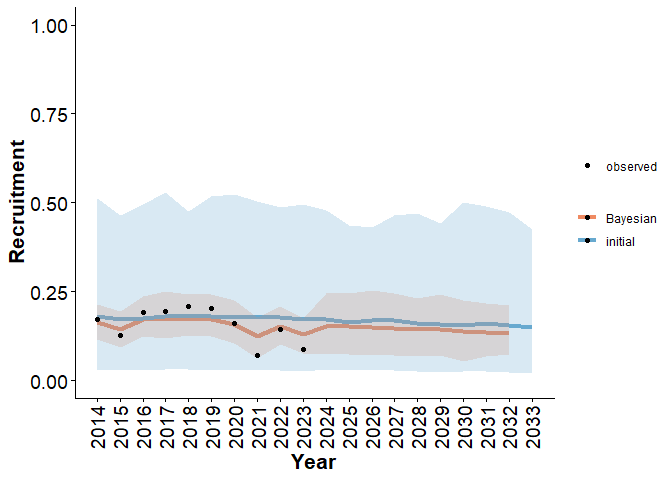
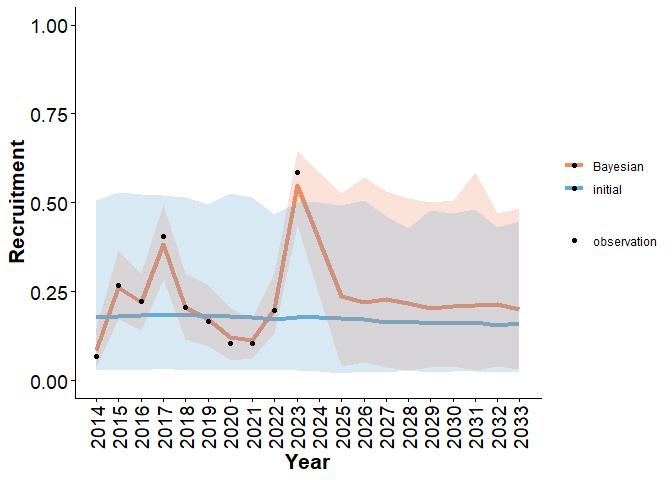
run documentation

diff --git a/README.md b/README.md
@@ -19,8 +19,9 @@ include:
 - a national demographic model with density dependence and interannual
   variability follows [Johnson et.
   al. (2020)](doi:10.1111/1365-2664.13637) with modifications described
-  in [Dyson et al. (in press)](https://doi.org/10.1101/2022.06.01.494350).
-  Demographic rates vary with disturbance as estimated by [Johnson et.
+  in [Dyson et al. (in
+  press)](https://doi.org/10.1101/2022.06.01.494350). Demographic rates
+  vary with disturbance as estimated by [Johnson et.
   al. (2020)](doi:10.1111/1365-2664.13637).
 - a Bayesian Beta model for integrating prior information from Johnson
   et al’s national analysis of demographic-disturbance relationships
@@ -37,6 +38,11 @@ R package [(Dalgarno et al. 2025)](https://doi.org/10.21105/joss.07997)
 al. (2025)](https://doi.org/10.1016/j.ecoinf.2025.103095) model has been
 extended as follows:
 
+- Allow for calculation of population growth rate without initial
+  population size information. See [Analytic Methods for Estimation of
+  Boreal Caribou Survival, Recruitment and Population
+  Growth](https://poissonconsulting.github.io/bboutools/articles/methods.html)
+  for details.
 - Allow analysis of composition survey data in bboutools form that
   includes Yearlings, Bulls, and UnknownAdults. See [Analytic Methods
   for Estimation of Boreal Caribou Survival, Recruitment and Population
@@ -49,6 +55,10 @@ extended as follows:
   Boreal Caribou Survival, Recruitment and Population
   Growth](https://poissonconsulting.github.io/bboutools/articles/methods.html)
   for details.
+- Allow for analysis of groups of populations with shared interannual
+  variation. See [Multi-Population Analysis and Other
+  Extensions](https://poissonconsulting.github.io/bboutools/articles/extensions.html)
+  for details.
 
 Simulated example population trajectories can be created from the
 national model or fitted Bayesian models, and combined with a simple
@@ -57,10 +67,12 @@ monitoring scenarios and show how monitoring requirements depend on
 landscape condition ([Hughes et
 al. 2025](https://doi.org/10.1016/j.ecoinf.2025.103095)).
 
-`caribouMetrics` also contains an implementation of [Hornseth and
-Rempel’s (2016)](https://doi.org/10.1139/cjz-2015-0101) Ontario boreal
-caribou resource selection model described in [Dyson et
-al. (in press)](https://doi.org/10.1101/2022.06.01.494350).
+The
+[EcoEvoMissisaPaper](https://github.com/LandSciTech/caribouMetrics/tree/EcoEvoMissisaPaper)
+branch of `caribouMetrics` also contains an implementation of [Hornseth
+and Rempel’s (2016)](https://doi.org/10.1139/cjz-2015-0101) Ontario
+boreal caribou resource selection model described in [Dyson et al. (in
+press)](https://doi.org/10.1101/2022.06.01.494350).
 
 Model implementation is intended to be modular and flexible, allowing
 reuse of components in a variety of contexts including projections of
@@ -86,14 +98,9 @@ package.
 library(caribouMetrics)
 #> Loading required package: nimble
 #> Warning: package 'nimble' was built under R version 4.4.3
-#> nimble version 1.3.0 is loaded.
+#> nimble version 1.4.2 is loaded.
 #> For more information on NIMBLE and a User Manual,
 #> please visit https://R-nimble.org.
-#> 
-#> Note for advanced users who have written their own MCMC samplers:
-#>   As of version 0.13.0, NIMBLE's protocol for handling posterior
-#>   predictive nodes has changed in a way that could affect user-defined
-#>   samplers in some situations. Please see Section 15.5.1 of the User Manual.
 #> 
 #> Attaching package: 'nimble'
 #> The following object is masked from 'package:stats':
@@ -102,6 +109,25 @@ library(caribouMetrics)
 #> The following object is masked from 'package:base':
 #> 
 #>     declare
+#> Loading required package: nimbleQuad
+#> Warning: package 'nimbleQuad' was built under R version 4.4.3
+#> 
+#> Attaching package: 'nimbleQuad'
+#> The following objects are masked from 'package:nimble':
+#> 
+#>     buildAGHQ, buildLaplace, runAGHQ, runLaplace, summaryAGHQ,
+#>     summaryLaplace
+#> Loading required package: bbouNationalPriors
+#> Loading required package: dplyr
+#> Warning: package 'dplyr' was built under R version 4.4.3
+#> 
+#> Attaching package: 'dplyr'
+#> The following objects are masked from 'package:stats':
+#> 
+#>     filter, lag
+#> The following objects are masked from 'package:base':
+#> 
+#>     intersect, setdiff, setequal, union
 # use local version on local and installed on GH
 if(requireNamespace("devtools", quietly = TRUE)) devtools::load_all()
 #> ℹ Loading caribouMetrics
@@ -141,19 +167,19 @@ demRates <- estimateNationalRates(covTable = disturb_tbl,
 #> popGrowthPars contains quantiles so they are used instead of the defaults
 demRates
 #>   zone   Anthro     Fire Total_dist Fire_excl_anthro FID     S_bar   S_stdErr
-#> 1    1 39.97933 1.732936   40.56555        0.5862182   0 0.8478733 0.05024037
-#>     S_PIlow  S_PIhigh     R_bar   R_stdErr    R_PIlow  R_PIhigh
-#> 1 0.7625781 0.9198247 0.1813372 0.09842164 0.03913806 0.3782637
+#> 1    1 39.97933 1.732936   40.56555        0.5862182   0 0.8478733 0.04913926
+#>    S_PIlow S_PIhigh     R_bar  R_stdErr    R_PIlow  R_PIhigh
+#> 1 0.754316 0.918299 0.1813372 0.1123969 0.04907986 0.4345639
 
 # Simulate population growth
 popGrow <- caribouPopGrowth(N = 2000, numSteps = 20, R_bar = demRates$R_bar, 
                             S_bar = demRates$S_bar)
 
 popGrow
-#>     N0    lambda   lambdaE   N       R_t        X_t       S_t n_recruits
-#> 1 2000 0.9071743 0.9247487 285 0.1865682 0.09328412 0.8584614         23
+#>     N0    lambda   lambdaE   N       R_t      X_t       S_t n_recruits
+#> 1 2000 0.9104049 0.9247487 306 0.2524541 0.126227 0.8249857         30
 #>   surviving_adFemales
-#> 1                 262
+#> 1                 276
 
 # simulate caribou collar observations
 params <- getScenarioDefaults(
@@ -182,8 +208,8 @@ pm <- bayesianTrajectoryWorkflow(simObs$simSurvObs, simObs$simRecruitObs,
 #>    Resolving undeclared variables
 #>    Allocating nodes
 #> Graph information:
-#>    Observed stochastic nodes: 29
-#>    Unobserved stochastic nodes: 70
+#>    Observed stochastic nodes: 20
+#>    Unobserved stochastic nodes: 79
 #>    Total graph size: 505
 #> 
 #> Initializing model
@@ -197,12 +223,12 @@ plotCompareTrajectories(pmTbls, c("Recruitment", "Adult female survival"))
 #> $Recruitment
 ```
 
-<img src="man/figures/README-example-1.png" width="100%" />
+<img src="man/figures/README-example-1.png" alt="" width="100%" />
 
     #> 
     #> $`Adult female survival`
 
-<img src="man/figures/README-example-2.png" width="100%" />
+<img src="man/figures/README-example-2.png" alt="" width="100%" />
 
 ## Resources
 
@@ -212,21 +238,21 @@ contains information on the `caribouMetrics` package. Here you can find
 function](https://landscitech.github.io/caribouMetrics/reference/index.html)
 and the following articles/vignettes/tutorials:
 
-- [**Demographic
-  Model**](https://landscitech.github.io/caribouMetrics/articles/caribouDemography.html):
+- [**Caribou Demographic Rates and
+  Trajectories**](https://landscitech.github.io/caribouMetrics/articles/caribouDemography.html):
   Simulate demographic rates and population growth using a national
-  model informed by demographic-disturbance relationships.
-- [**Bayesian Demographic
-  Projection**](https://landscitech.github.io/caribouMetrics/articles/bayesian-model-outputs.html):
-  Estimate and project demographic rates and population growth using a
-  Bayesian model informed by national demographic-disturbance
-  relationships and local demographic data.
+  model informed by demographic-disturbance relationships or Bayesian
+  models.
 - [**Comparing the caribouMetrics Beta model to bboutools
   models**](https://landscitech.github.io/caribouMetrics/articles/compare-bayesian-models.html):
   Estimate and project demographic rates and population growth using
-  Bayesian logistic models implemented in the `bboutools` R package, and
-  compare to Beta models informed by national demographic-disturbance
-  relationships and local demographic data.
+  Bayesian logistic models implemented in the `bboutools` R package or
+  Beta models informed by national demographic-disturbance relationships
+  and local demographic data, and compare models.
+- [**Simulation of monitoring scenarios informed by local
+  data**](https://landscitech.github.io/caribouMetrics/articles/combine-observed-simulated.html):
+  Assess monitoring strategies by simulating plausible outcomes of
+  additional monitoring.
 - [**Disturbance
   Metrics**](https://landscitech.github.io/caribouMetrics/articles/Using_disturbanceMetric.html):
   Calculate buffered anthropogenic disturbance and fire disturbance
@@ -246,13 +272,12 @@ packages to facilitate analysis of boreal caribou survival and
 recruitment data. Journal of Open Source Software 10:7997.
 <https://doi.org/10.21105/joss.07997>
 
-Dyson, M., Endicott, S., Simpkins C., Turner, J.W., Avery-Gomm S.,
-Johnson, C.A., Leblond, M., Neilson, E.W., Rempel, R., Wiebe, P.A.,
-Baltzer, J.L., Stewart, F.E.C., Hughes, J. 2022. Existing caribou
-habitat and demographic models are poorly suited for Ring of Fire impact
-assessment: A roadmap for improving the usefulness, transparency, and
-availability of models for conservation. bioRxiv 2022.06.01.494350;
-<https://doi.org/10.1101/2022.06.01.494350>
+Dyson, M., Endicott, S., Simpkins, C., Turner, J. W., Avery-Gomm, S.,
+Johnson, C. A., Leblond, M., Neilson, E. W., Rempel, R., Wiebe, P. A.,
+Baltzer, J. L., Stewart, F. E. C., & Hughes, J. (in press). Effective
+conservation decisions require models designed for purpose: a case study
+of boreal caribou in Ontario’s Ring of Fire. Ecology and Evolution In
+press: <https://doi.org/10.1101/2022.06.01.494350>
 
 ECCC. 2011. Scientific assessment to inform the identification of
 critical habitat for woodland caribou (*Rangifer tarandus caribou*),
